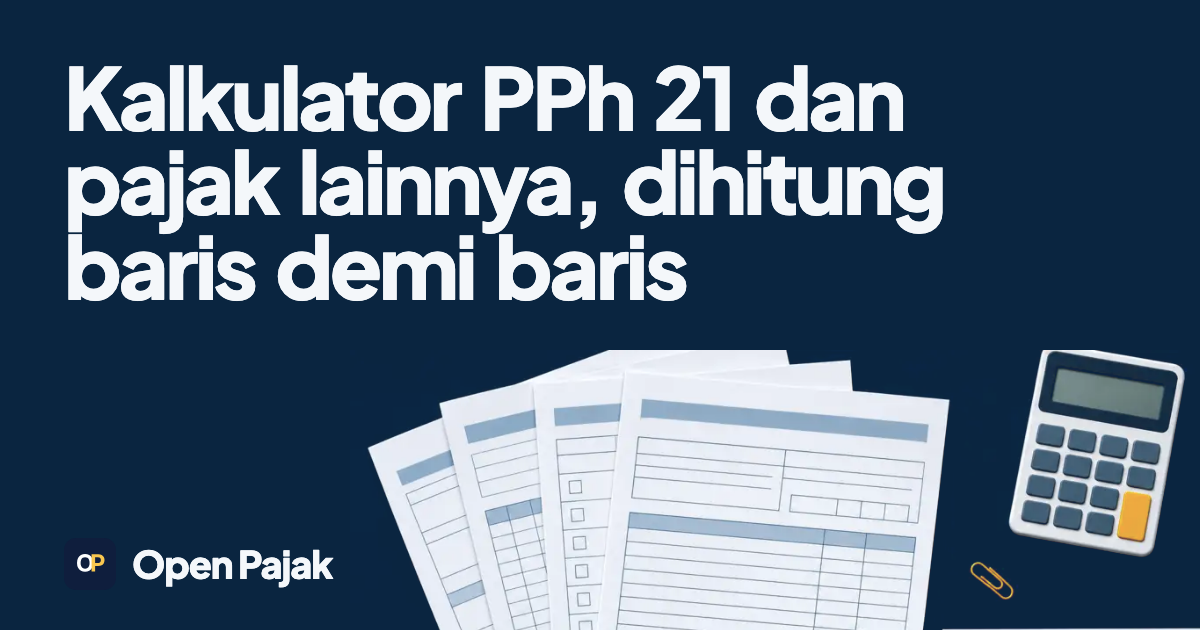
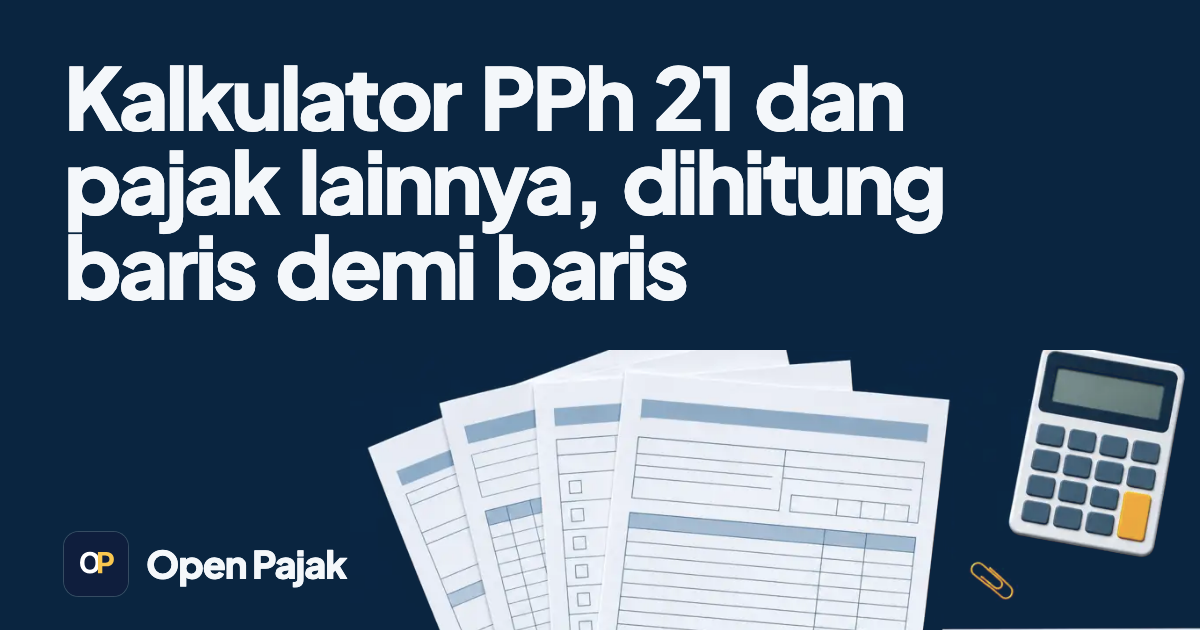
fix(site): larger OP mark with an outer ring in the header and og images

Changed region(s): [[0.0617, 0.8746, 0.3083, 0.9349]]

diff --git a/site/public/index.html b/site/public/index.html
@@ -27,7 +27,7 @@
 <script type="application/ld+json">{"@context":"https://schema.org","@graph":[{"@type":"WebSite","@id":"https://open-pajak.hamardikan.com/#website","url":"https://open-pajak.hamardikan.com/","name":"Open Pajak","inLanguage":"id","publisher":{"@id":"https://hamardikan.com/#person"}},{"@type":"WebApplication","@id":"https://openpajak.hamardikan.com/#app","name":"Open Pajak","url":"https://openpajak.hamardikan.com/","description":"Kalkulator PPh 21, 22, 23, 26, 4(2), PPN dan PPNBM untuk pajak Indonesia. Setiap langkah hitung ditampilkan, dan angkanya tetap di browser.","applicationCategory":"FinanceApplication","operatingSystem":"Any (web browser)","browserRequirements":"Membutuhkan JavaScript dan browser web terkini","inLanguage":"id","sameAs":["https://github.com/hmrdkn-labs/open-pajak"],"author":{"@id":"https://hamardikan.com/#person"},"publisher":{"@id":"https://hamardikan.com/#person"}},{"@type":"Person","@id":"https://hamardikan.com/#person","name":"Azzam Muhammadi Rizqun Karima","url":"https://hamardikan.com/"}]}</script>
 <link rel="preload" href="/assets/fonts/plus-jakarta-sans-latin-800-normal.5f301a8e.woff2" as="font" type="font/woff2" crossorigin>
 <link rel="preload" href="/assets/fonts/public-sans-latin-400-normal.36274b57.woff2" as="font" type="font/woff2" crossorigin>
-<link rel="stylesheet" href="/assets/style.1e7ed398.css">
+<link rel="stylesheet" href="/assets/style.02b0d14a.css">
 <script src="/assets/boot.07e9e867.js"></script>
 <script src="/assets/app.9073b48d.js" defer></script>
 </head>
@@ -187,7 +187,7 @@
       <a href="https://kubecompass.hamardikan.com/">KubeCompass</a>
       <a href="https://hamardikan.com/">hamardikan.com</a>
     </p>
-    <p class="muted">Dibangun dari <code>99c7134</code> pada 25 November 2026. Hitungan GitHub per 25 November 2026.</p>
+    <p class="muted">Dibangun dari <code>0d00190</code> pada 25 November 2026. Hitungan GitHub per 25 November 2026.</p>
   </div>
 </footer>
 </body>

diff --git a/site/public/en/index.html b/site/public/en/index.html
@@ -27,7 +27,7 @@
 <script type="application/ld+json">{"@context":"https://schema.org","@graph":[{"@type":"WebSite","@id":"https://open-pajak.hamardikan.com/en/#website","url":"https://open-pajak.hamardikan.com/en/","name":"Open Pajak","inLanguage":"en","publisher":{"@id":"https://hamardikan.com/#person"}},{"@type":"WebApplication","@id":"https://openpajak.hamardikan.com/#app","name":"Open Pajak","url":"https://openpajak.hamardikan.com/","description":"Free calculators for Indonesian PPh 21, 22, 23, 26, 4(2), PPN and PPNBM. Every step is shown, and the numbers stay in the browser.","applicationCategory":"FinanceApplication","operatingSystem":"Any (web browser)","browserRequirements":"Requires JavaScript and a current web browser","inLanguage":"en","sameAs":["https://github.com/hmrdkn-labs/open-pajak"],"author":{"@id":"https://hamardikan.com/#person"},"publisher":{"@id":"https://hamardikan.com/#person"}},{"@type":"Person","@id":"https://hamardikan.com/#person","name":"Azzam Muhammadi Rizqun Karima","url":"https://hamardikan.com/"}]}</script>
 <link rel="preload" href="/assets/fonts/plus-jakarta-sans-latin-800-normal.5f301a8e.woff2" as="font" type="font/woff2" crossorigin>
 <link rel="preload" href="/assets/fonts/public-sans-latin-400-normal.36274b57.woff2" as="font" type="font/woff2" crossorigin>
-<link rel="stylesheet" href="/assets/style.1e7ed398.css">
+<link rel="stylesheet" href="/assets/style.02b0d14a.css">
 <script src="/assets/boot.07e9e867.js"></script>
 <script src="/assets/app.9073b48d.js" defer></script>
 </head>
@@ -187,7 +187,7 @@
       <a href="https://kubecompass.hamardikan.com/">KubeCompass</a>
       <a href="https://hamardikan.com/">hamardikan.com</a>
     </p>
-    <p class="muted">Deployed from <code>99c7134</code> on 25 November 2026. GitHub counts as of 25 November 2026.</p>
+    <p class="muted">Deployed from <code>0d00190</code> on 25 November 2026. GitHub counts as of 25 November 2026.</p>
   </div>
 </footer>
 </body>

diff --git a/site/public/assets/style.02b0d14a.css b/site/public/assets/style.02b0d14a.css
@@ -58,8 +58,10 @@ section { padding-block: clamp(4rem, 9vw, 8rem); }
   padding: 1rem var(--pad);
   color: var(--bg);
 }
-.top .brand { display: inline-flex; align-items: center; gap: 0.45em; font: 800 1.625rem / 1 var(--display); letter-spacing: -0.03em; text-decoration: none; padding: 0.5rem 0; white-space: nowrap; }
-.logo { display: block; flex: none; width: 1.3em; height: 1.3em; }
+.top .brand { display: inline-flex; align-items: center; gap: 0.55rem; font: 800 1.625rem / 1 var(--display); letter-spacing: -0.03em; text-decoration: none; padding: 0.5rem 0; white-space: nowrap; }
+/* The mark keeps its own colours; the ring sits outside it so the navy square reads on the navy header. */
+.logo { display: block; flex: none; width: 44px; height: 44px; border-radius: 22.9167%; box-shadow: 0 0 0 1px rgba(255, 255, 255, 0.18); }
+@media (max-width: 640px) { .logo { width: 40px; height: 40px; } }
 .top nav { display: flex; gap: 0.25rem; }
 .top nav a { padding: 0.75rem 0.7rem; font-size: var(--text-sm); font-weight: 600; text-decoration: none; color: var(--on-ink-muted); transition: color 160ms var(--ease); }
 .top nav a:hover { color: #fff; text-decoration: underline; }
@@ -205,6 +207,11 @@ select:disabled { opacity: 0.6; }
 /* The language link stays; section links drop out as the bar runs out of room. */
 @media (max-width: 640px) {
   .top nav a[href="#calculators"], .top nav a[href="#source"] { display: none; }
+}
+@media (max-width: 360px) {
+  .top { gap: 0.5rem; padding-inline: 1rem; }
+  .top .brand { font-size: 1.125rem; gap: 0.45rem; }
+  .top nav a.lang { font-size: 0.8125rem; padding-inline: 0.25rem; }
 }
 @media (max-width: 420px) {
   .top .brand { font-size: 1.25rem; }

diff --git a/site/src/style.css b/site/src/style.css
@@ -58,8 +58,10 @@ section { padding-block: clamp(4rem, 9vw, 8rem); }
   padding: 1rem var(--pad);
   color: var(--bg);
 }
-.top .brand { display: inline-flex; align-items: center; gap: 0.45em; font: 800 1.625rem / 1 var(--display); letter-spacing: -0.03em; text-decoration: none; padding: 0.5rem 0; white-space: nowrap; }
-.logo { display: block; flex: none; width: 1.3em; height: 1.3em; }
+.top .brand { display: inline-flex; align-items: center; gap: 0.55rem; font: 800 1.625rem / 1 var(--display); letter-spacing: -0.03em; text-decoration: none; padding: 0.5rem 0; white-space: nowrap; }
+/* The mark keeps its own colours; the ring sits outside it so the navy square reads on the navy header. */
+.logo { display: block; flex: none; width: 44px; height: 44px; border-radius: 22.9167%; box-shadow: 0 0 0 1px rgba(255, 255, 255, 0.18); }
+@media (max-width: 640px) { .logo { width: 40px; height: 40px; } }
 .top nav { display: flex; gap: 0.25rem; }
 .top nav a { padding: 0.75rem 0.7rem; font-size: var(--text-sm); font-weight: 600; text-decoration: none; color: var(--on-ink-muted); transition: color 160ms var(--ease); }
 .top nav a:hover { color: #fff; text-decoration: underline; }
@@ -205,6 +207,11 @@ select:disabled { opacity: 0.6; }
 /* The language link stays; section links drop out as the bar runs out of room. */
 @media (max-width: 640px) {
   .top nav a[href="#calculators"], .top nav a[href="#source"] { display: none; }
+}
+@media (max-width: 360px) {
+  .top { gap: 0.5rem; padding-inline: 1rem; }
+  .top .brand { font-size: 1.125rem; gap: 0.45rem; }
+  .top nav a.lang { font-size: 0.8125rem; padding-inline: 0.25rem; }
 }
 @media (max-width: 420px) {
   .top .brand { font-size: 1.25rem; }

diff --git a/site/public/404.html b/site/public/404.html
@@ -6,7 +6,7 @@
 <title>Page not found · Open Pajak</title>
 <meta name="robots" content="noindex">
 <link rel="icon" href="/favicon.svg" type="image/svg+xml">
-<link rel="stylesheet" href="/assets/style.1e7ed398.css">
+<link rel="stylesheet" href="/assets/style.02b0d14a.css">
 </head>
 <body class="plain">
 <a class="skip" href="#main">Skip to content</a>
